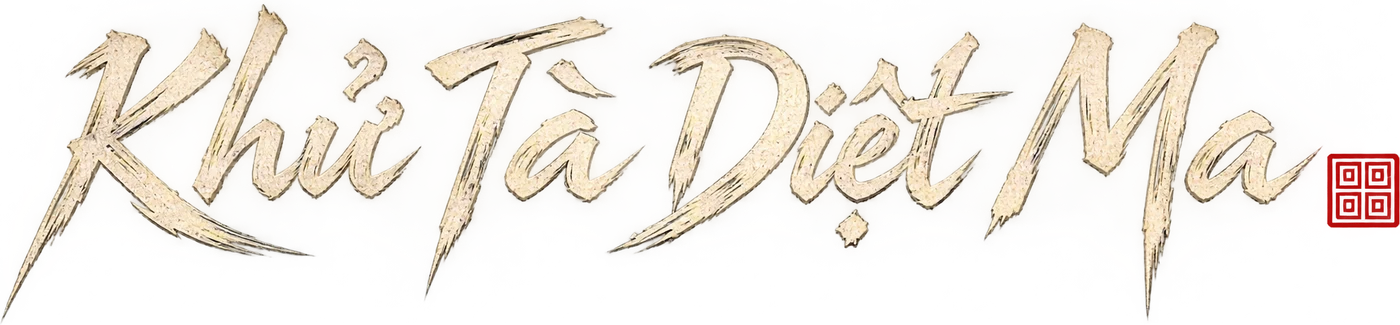
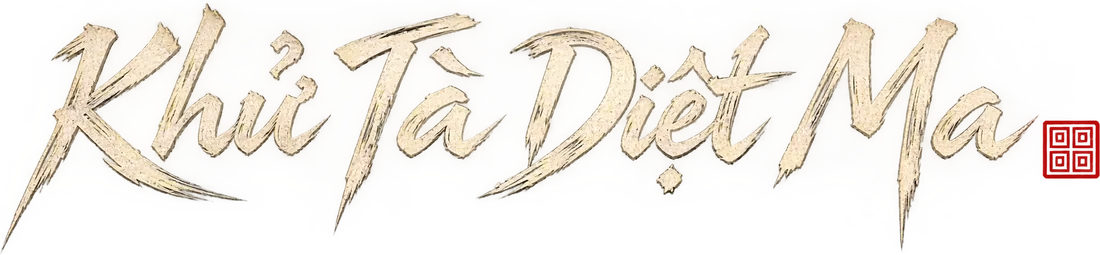
Nén tiêu đề màn chờ 130 KB để trong ngân sách tải

diff --git a/CLAUDE.md b/CLAUDE.md
@@ -828,4 +828,4 @@ Quyết định (chủ game không chọn riêng nên lấy đề xuất): hình
 - (26/11) **MÀN CHỜ DÙNG 7 ẢNH NGẪU NHIÊN MỖI LẦN TẢI (chủ game gửi 7 ảnh ChatGPT 1672×941: bến thuyền ma, cổng đá hương khói, cầu đá, cánh đồng bỉ ngạn, miếu tuyết, vách đá dây đỏ, rừng tre mưa):** gốc `nguon/master_amgioi/man_cho_7/ld{1..7}_goc.png`; trong game `assets/ui/loading/ld{1..7}.webp` (1600 px rộng, WebP q78, 53–141 KB mỗi ảnh, chỉ tải 1 ảnh mỗi lần). Script nhỏ trong `<head>` chọn ngẫu nhiên, đặt biến CSS `--ldgbg` và preload ảnh đó (`window.__ldN` = số ảnh); `#ldg .lbg` dùng `var(--ldgbg, nen_tao_nhan_vat.jpg)` (ảnh cũ chỉ còn làm dự phòng), nền `center 40%/cover`. Thêm ảnh thứ 8: chép `ld8.webp` và đổi số 7 thành 8 trong script. Đã soi 852×393, 550×278, 811×260, 956×440 (ép hiện màn chờ, thanh 42%). Ảnh `nguon/tham_chieu/man_cho_*.png`.
 - (26/11) Ngân sách mở game `pack_budget.py` nâng 5,5→5,8 MB (đo 5,54: avatar mới ~0,4 MB + 1 ảnh màn chờ ≤0,14 MB).
 - (26/11) **MÀN CHỜ LÀM LẠI THEO MẪU (chủ game: ảnh cổng miếu làm nền; tiêu đề thư pháp ngà + dấu đỏ; thanh tải 3 lớp).** Nền cố định `assets/ui/loading/cong.webp` (gốc `nguon/master_amgioi/man_cho_7/ld_cong_mieu_goc.png`, cover căn giữa; bỏ chọn ngẫu nhiên 7 ảnh, `ld1..7.webp` còn trong repo nhưng KHÔNG dùng). Tiêu đề = ảnh PNG trong suốt `assets/ui/loading/tieude.png` dựng bằng `cong_cu/claude/ldg_title.py <thư_mục_font> <ra>`: "Khử Tà Diệt Ma" font **Charmonman Bold** (font thư pháp duy nhất tìm được có đủ dấu tiếng Việt; Ma Shan Zheng/Yuji Boku thiếu ử, à, ệ) tô ngà cũ có vân + con dấu đỏ **驅邪** (Yuji Boku, chữ Hán phồn thể). Font tải từ github google/fonts. **Thanh tải:** `.lbar` = rãnh đá đứng yên; `#ldgB` (giữ nguyên id, `width:%` do `ldgDraw` đặt) = lớp máu đỏ sẫm; `<u class="hd">` bên trong = đầu vệt + 2 giọt, luôn nằm ở mép phải của lớp máu nên bám điểm cuối; ở 0% có class `z0` để đầu vệt không lòi ra ngoài rãnh. Chữ "Đang mở Quỷ Môn…" bên trên trái, số % bên phải (cùng hàng `.lrow`); chỉ dẫn nhẹ (không khung, chỉ vạch mảnh). Logic tải/chuyển màn không đổi. Tiêu đề, thanh và chỉ dẫn neo theo khung màn hình (top/bottom) nên không mất khi ảnh bị cắt. Đã chụp 39% ở 811×260 và 1280×720, thêm 0/75/100% ở hai cỡ đó, và 39% ở 550×278, 852×393, 956×440, 667×375. **Lưu ý:** ảnh đính kèm lần này là ảnh nền sạch, chưa thấy ảnh mockup có chữ/thanh nên bố cục dựng theo mô tả; cần đối chiếu mockup thật. Ảnh `nguon/tham_chieu/man_cho_moi_*.png`.
-- (26/11) **TIÊU ĐỀ MÀN CHỜ = ẢNH THƯ PHÁP DO CHỦ GAME GỬI** (nét cọ ngà cũ + dấu đỏ, 2197×716 PNG trong suốt; gốc `nguon/master_amgioi/man_cho_7/tieude_thu_phap_goc.png`): cắt sát, thu 1400 px rộng, `game/assets/ui/loading/tieude.webp` (230 KB, WebP có alpha). Cao `clamp(46px,21vh,140px)`. Bản Charmonman tao dựng bằng code (`ldg_title.py`) thay ra `nguon/vfx_goc/tieude_charmonman_code.png`, không còn dùng. Đã chụp 39% ở 811×260, 1280×720 và 4 cỡ khác không lỗi trang.
+- (26/11) **TIÊU ĐỀ MÀN CHỜ = ẢNH THƯ PHÁP DO CHỦ GAME GỬI** (nét cọ ngà cũ + dấu đỏ, 2197×716 PNG trong suốt; gốc `nguon/master_amgioi/man_cho_7/tieude_thu_phap_goc.png`): cắt sát, thu 1100 px rộng, `game/assets/ui/loading/tieude.webp` (~140 KB, WebP có alpha). Cao `clamp(46px,21vh,140px)`. Bản Charmonman tao dựng bằng code (`ldg_title.py`) thay ra `nguon/vfx_goc/tieude_charmonman_code.png`, không còn dùng. Đã chụp 39% ở 811×260, 1280×720 và 4 cỡ khác không lỗi trang.
